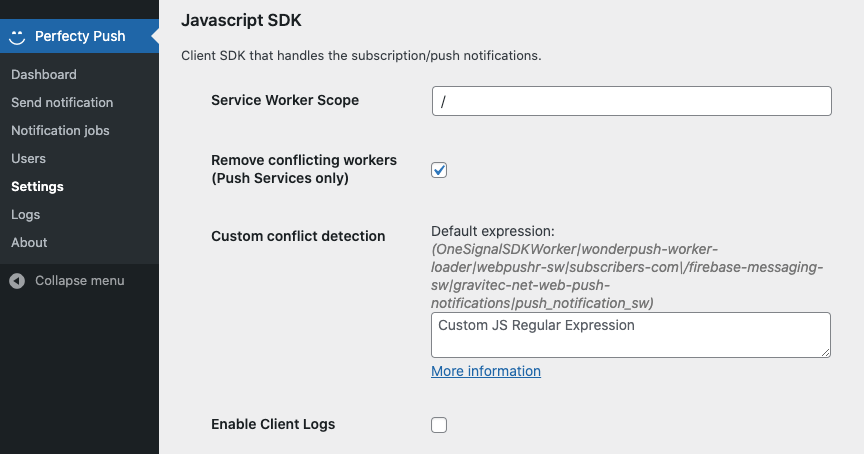
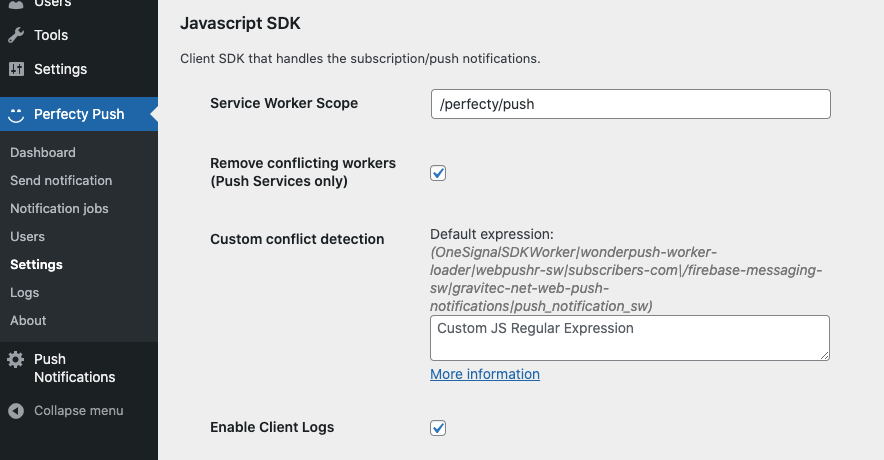
Instructions to remove conflicting SW

diff --git a/gatsby-config.js b/gatsby-config.js
@@ -21,7 +21,8 @@ module.exports = {
           null: [
             'index',
             'wp/configuration',
-            'wp/troubleshooting'
+            'wp/troubleshooting',
+            'wp/conflict-resolution'
           ],
           Support: [
             'support/contact'

diff --git a/docs/wp/conflict-resolution.md b/docs/wp/conflict-resolution.md
@@ -1,0 +1,75 @@
+---
+title: Service Worker conflicts
+description: How to remove old Service Workers from other providers
+---
+
+If you have previously installed external
+Push Notifications providers, it's very common that their Service Workers stay idle in your visitor's Browsers.
+Check out what is a Service Worker at [https://developers.google.com/web/fundamentals/primers/service-workers](https://developers.google.com/web/fundamentals/primers/service-workers).
+
+Perfecty Push needs to uninstall those service workers because ideally you should only have one Service Worker that
+receives and processes all the Push Notifications sent by your self-hosted server.
+
+Note that by removing those old workers, it won't affect the PWA/AMP service workers because their URL doesn't match the default JS Regex detection.
+
+## How to remove old Service Workers
+
+In order to remove those old and idle Service Workers, you need to activate the `Remove conflicting workers (Push Services only)`
+option, and if you want to troubleshoot the whole removal process in the Browser check the `Enable Client Logs` option, and
+deactivate it after you're done.
+
+![images/settings-js-sdk.png](images/settings-js-sdk.png)
+
+All the options are described in [Configuration](./configuration/).
+
+
+## Example
+
+In this example even if we deactivate the old plugin, their service worker stays active in the visitor's browser.
+
+The old Service Worker is still installed in your Browser, if you open the Chrome's Developer Tools > Application > Service Workers you will see it with this URL:
+
+```
+https://localhost/?push_notification_sw=1
+```
+
+Perfecty Push worker will have this URL:
+
+```
+https://localhost/wp-content/plugins/perfecty-push-wp/public/js/service-worker-loader.js.php
+```
+
+### Conflicting Service Worker
+
+The old Service Worker is still installed and active, even if you've uninstalled the old plugin from WordPress.
+
+![images/sw-conflict-before.png](images/sw-conflict-before.png)
+
+### Automatic Removal
+
+After enabling the `Remove conflicting workers (Push Services only)` option, the conflicting worker is deleted by
+Perfecty Push and the new one is installed.
+
+![images/sw-conflict-removal.png](images/sw-conflict-removal.png)
+
+### Client logs
+
+You can see in the logs that the conflicting worker was detected and removed.
+
+![images/sw-conflict-client-logs.png](images/sw-conflict-client-logs.png)
+
+## Custom detection
+
+By default, Perfecty Push uses the following Javascript Regex to detect the potential conflicting workers from known third party providers:
+
+```
+(OneSignalSDKWorker|wonderpush-worker-loader|webpushr-sw|subscribers-com\/firebase-messaging-sw|gravitec-net-web-push-notifications|push_notification_sw)
+```
+
+You can create your own and validate the resulting expression in [https://regex101.com/](https://regex101.com/) using the `ECMAScript (JavaScript)` flavor:
+
+![images/regex-101-conflict-sw.png](images/sw-conflict-regex-101.png)
+
+In _Test String_ use the conflicting worker URL as you can see it in the Chrome's Web Inspector, for the example described above it was: `https://localhost/?push_notification_sw=1`.
+
+In this validation you can see that it has 1 match.

diff --git a/docs/wp/troubleshooting.md b/docs/wp/troubleshooting.md
@@ -53,3 +53,7 @@ This is due to two reasons:
 - You have deleted the VAPID keys from the Settings.
 
 In any case, you can generate them automatically by deactivating/activating your plugin from the WordPress plugin UI (this won't remove your data).
+
+## Conflicts with external Service Workers
+
+Read the section [Conflict Resolution](./conflict-resolution)
